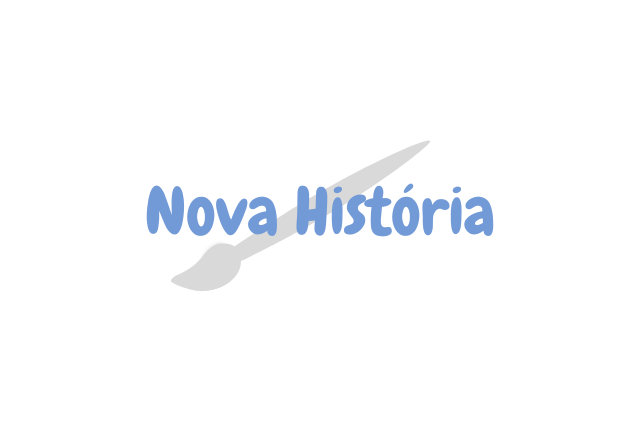
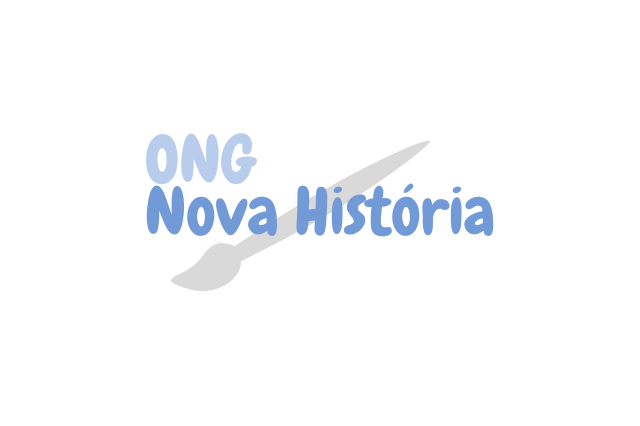
feat: new informations

Changed region(s): [[0.2188, 0.3052, 0.4062, 0.4272]]

diff --git a/index.html b/index.html
@@ -242,7 +242,7 @@
             target="_blank"
             class="work__img"
           >
-            <img src="assets/img/Clone.png" alt="" />
+            <img src="assets/img/CloneNetflix.png" alt="" />
           </a>
           <a
             href="https://kawanwagnner.github.io/v-g-prevencoes/"
@@ -266,11 +266,11 @@
             <img src="assets/img/ong.png" alt="" />
           </a>
           <a
-            href="https://task-list-react-beta.vercel.app/"
+            href="https://kawanwagnner.github.io/jornal-gremio-estudantil/"
             target="_blank"
             class="work__img"
           >
-            <img src="assets/img/task.png" alt="" />
+            <img src="assets/img/gremio.png" alt="" />
           </a>
         </div>
       </section>
@@ -329,7 +329,7 @@
         ></a>
       </div>
       <p class="footer__copy">
-        &#169; Kawan Wnn. Todos os direitos reservados.
+        &#169; Kawan Wnn. Todos os direitos reservados 2024.
       </p>
     </footer>
 